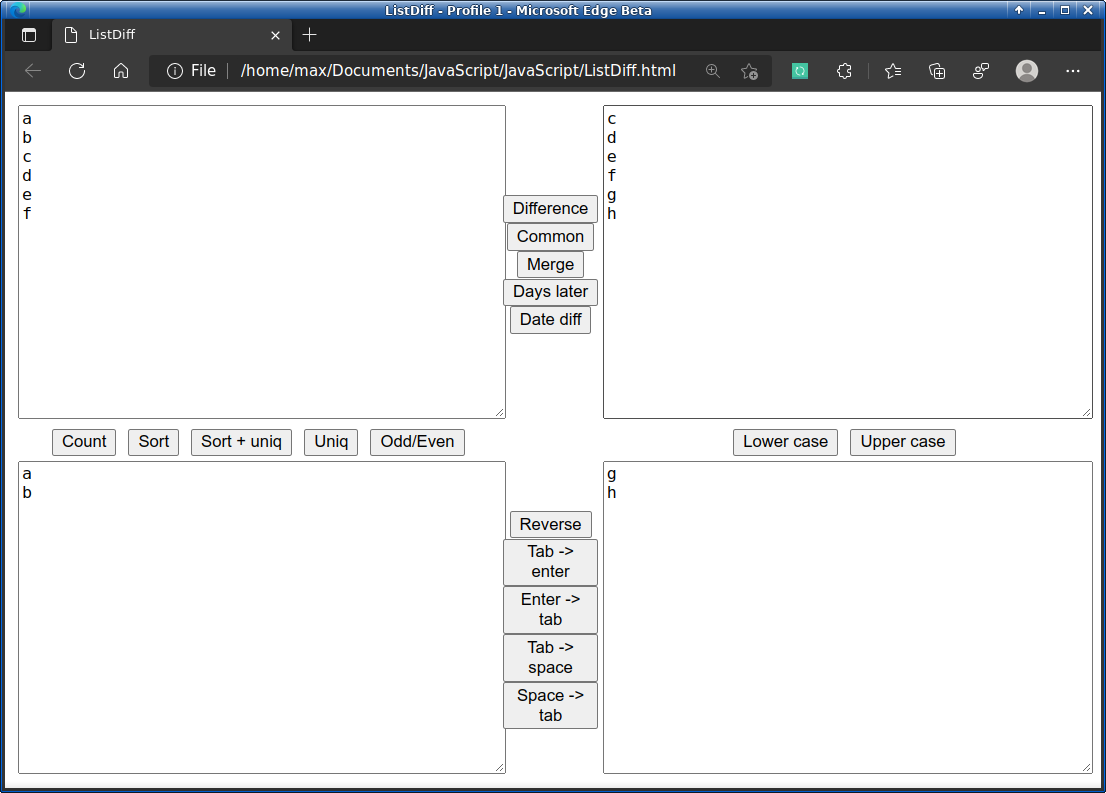
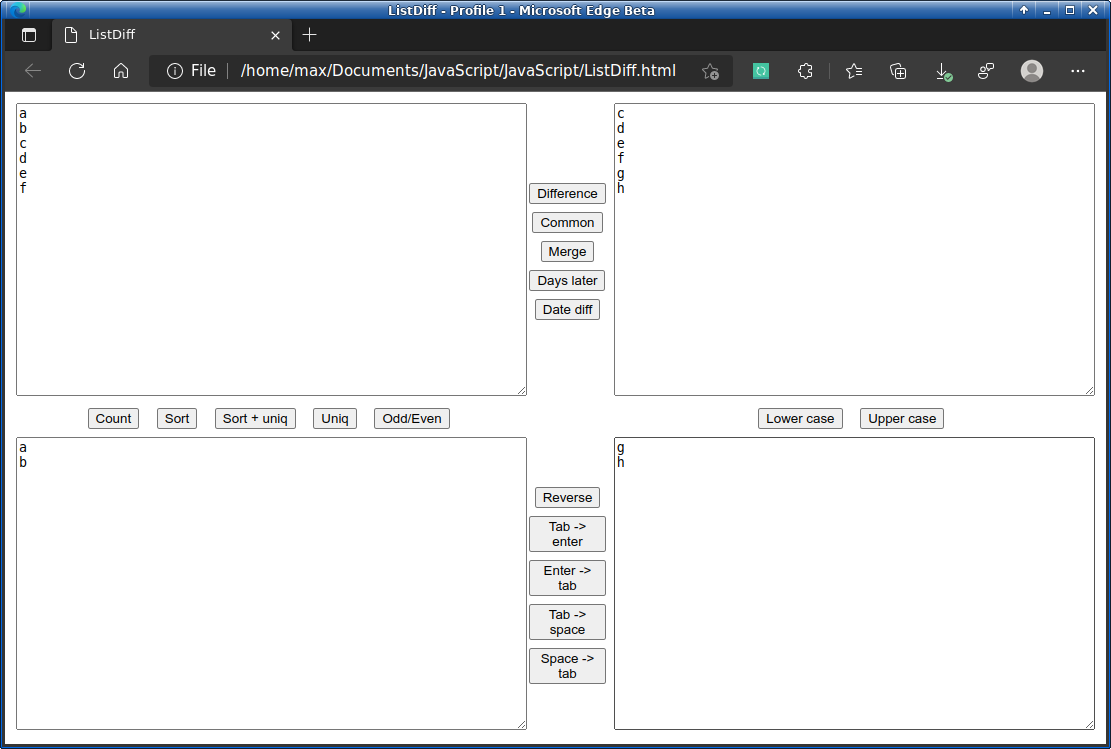
Slight visual improvements.

diff --git a/ListDiff.html b/ListDiff.html
@@ -15,6 +15,8 @@
   table    { width: 100%; height: 100%; }
   textarea { width: 100%; height: 44vh; }
 
+  button { margin: 4px; }
+
   .ctrv { text-align: center; width: 1px;
           vertical-align: middle; }
 
